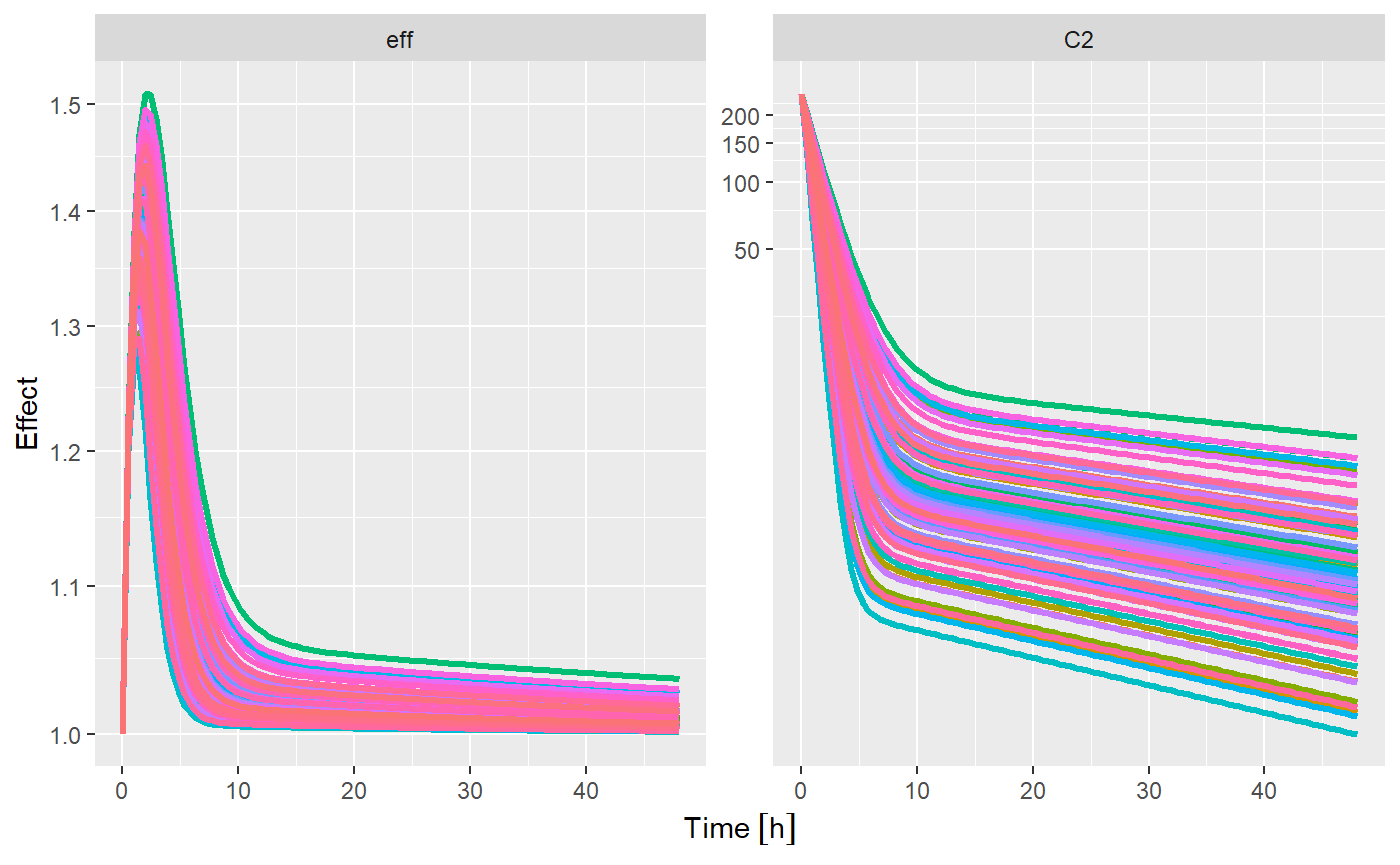
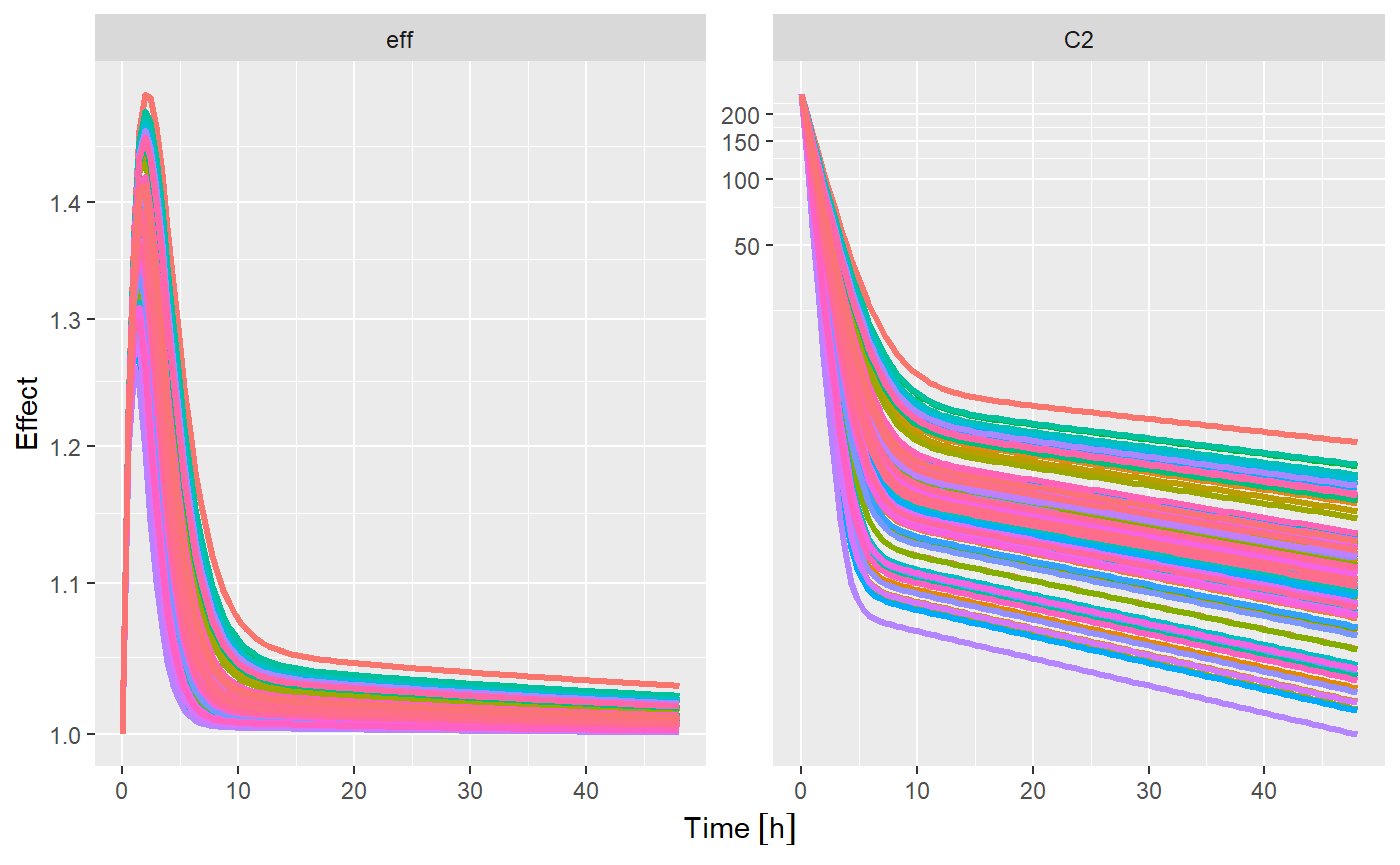
Update documenation

diff --git a/docs/articles/RxODE-sim-var.html b/docs/articles/RxODE-sim-var.html
@@ -63,7 +63,7 @@
       <a href="https://nlmixrdevelopment.github.io/RxODE.doc/articles/RxODE-pipeline.html">RxODE with piping ie %&gt;%</a>
     </li>
     <li>
-      <a href="../articles/speed.html">Speeding up RxODE ODE solving</a>
+      <a href="https://nlmixrdevelopment.github.io/RxODE.doc/articles/speed.html">Speeding up RxODE ODE solving</a>
     </li>
     <li class="divider">
     <li class="dropdown-header">Advanced Features, Model Types, Technical Details</li>
@@ -292,12 +292,12 @@ s &lt;-sim <span class="op">%&gt;%</span><span class="st"> </span><span class="k
 <p>Note that you can see the parameters that were simulated for the example</p>
 <div class="sourceCode"><pre class="sourceCode r"><code class="sourceCode r"><span class="kw"><a href="https://www.rdocumentation.org/packages/utils/topics/head">head</a></span>(sim<span class="op">$</span>param)
 <span class="co">#&gt;   sim.id   V2 prop.err  V3  TCl      eta.Cl    KA    Q Kin Kout EC50</span>
-<span class="co">#&gt; 1      1 40.2        0 297 18.6 -0.44378468 0.294 10.5   1    1  200</span>
-<span class="co">#&gt; 2      2 40.2        0 297 18.6  0.08028425 0.294 10.5   1    1  200</span>
-<span class="co">#&gt; 3      3 40.2        0 297 18.6  0.56368427 0.294 10.5   1    1  200</span>
-<span class="co">#&gt; 4      4 40.2        0 297 18.6 -0.40311693 0.294 10.5   1    1  200</span>
-<span class="co">#&gt; 5      5 40.2        0 297 18.6  0.08052785 0.294 10.5   1    1  200</span>
-<span class="co">#&gt; 6      6 40.2        0 297 18.6  0.06417342 0.294 10.5   1    1  200</span></code></pre></div>
+<span class="co">#&gt; 1      1 40.2        0 297 18.6 -0.93989155 0.294 10.5   1    1  200</span>
+<span class="co">#&gt; 2      2 40.2        0 297 18.6  0.47153079 0.294 10.5   1    1  200</span>
+<span class="co">#&gt; 3      3 40.2        0 297 18.6  0.62126036 0.294 10.5   1    1  200</span>
+<span class="co">#&gt; 4      4 40.2        0 297 18.6 -0.47406088 0.294 10.5   1    1  200</span>
+<span class="co">#&gt; 5      5 40.2        0 297 18.6  0.02213663 0.294 10.5   1    1  200</span>
+<span class="co">#&gt; 6      6 40.2        0 297 18.6  0.29014307 0.294 10.5   1    1  200</span></code></pre></div>
 </div>
 <div id="simulation-of-unexplained-variability" class="section level3">
 <h3 class="hasAnchor">
@@ -356,25 +356,25 @@ dat &lt;-<span class="st"> </span><span class="kw"><a href="https://www.rdocumen
 sim  &lt;-<span class="st"> </span><span class="kw">rxSolve</span>(mod, theta, dat, <span class="dt">omega=</span>omega, <span class="dt">sigma=</span>sigma)
 
 sim <span class="op">%&gt;%</span><span class="st"> </span><span class="kw">select</span>(id, time, e, cp)
-<span class="co">#&gt;    id          time         e          cp</span>
-<span class="co">#&gt; 1   1  0.000000 [h] 0.9579106 10113.37582</span>
-<span class="co">#&gt; 2   1  5.333333 [h] 1.2355987   389.94853</span>
-<span class="co">#&gt; 3   1 10.666667 [h] 0.8857576   112.76544</span>
-<span class="co">#&gt; 4   1 16.000000 [h] 0.7206149   194.04037</span>
-<span class="co">#&gt; 5   1 21.333333 [h] 1.1614892   142.42067</span>
-<span class="co">#&gt; 6   1 26.666667 [h] 1.2045094   169.30676</span>
-<span class="co">#&gt; 7   1 32.000000 [h] 0.7828081   184.59318</span>
-<span class="co">#&gt; 8   1 37.333333 [h] 0.7415160   171.36247</span>
-<span class="co">#&gt; 9   1 42.666667 [h] 1.3704419   111.58701</span>
-<span class="co">#&gt; 10  1 48.000000 [h] 1.3143011   100.29217</span>
-<span class="co">#&gt; 11  2  0.000000 [h] 1.2051766   938.25394</span>
-<span class="co">#&gt; 12  2  6.857143 [h] 1.4497490   207.32017</span>
-<span class="co">#&gt; 13  2 13.714286 [h] 1.0149645   105.91117</span>
-<span class="co">#&gt; 14  2 20.571429 [h] 1.6602476   109.62846</span>
-<span class="co">#&gt; 15  2 27.428571 [h] 0.6084772    31.13311</span>
-<span class="co">#&gt; 16  2 34.285714 [h] 1.2883383    38.19640</span>
-<span class="co">#&gt; 17  2 41.142857 [h] 1.1251433    66.32220</span>
-<span class="co">#&gt; 18  2 48.000000 [h] 1.2219987    47.15960</span></code></pre></div>
+<span class="co">#&gt;    id          time         e         cp</span>
+<span class="co">#&gt; 1   1  0.000000 [h] 0.6464624 3721.95162</span>
+<span class="co">#&gt; 2   1  5.333333 [h] 1.0209052  170.17126</span>
+<span class="co">#&gt; 3   1 10.666667 [h] 0.8589937   66.12528</span>
+<span class="co">#&gt; 4   1 16.000000 [h] 0.9317105   65.93450</span>
+<span class="co">#&gt; 5   1 21.333333 [h] 0.7707185   54.96598</span>
+<span class="co">#&gt; 6   1 26.666667 [h] 1.2584694   43.08445</span>
+<span class="co">#&gt; 7   1 32.000000 [h] 1.0477408   32.72645</span>
+<span class="co">#&gt; 8   1 37.333333 [h] 0.6739108   40.50157</span>
+<span class="co">#&gt; 9   1 42.666667 [h] 0.8269808   37.16707</span>
+<span class="co">#&gt; 10  1 48.000000 [h] 1.2834714   19.51950</span>
+<span class="co">#&gt; 11  2  0.000000 [h] 0.5102074 4485.42730</span>
+<span class="co">#&gt; 12  2  6.857143 [h] 0.8943512  134.67063</span>
+<span class="co">#&gt; 13  2 13.714286 [h] 1.1035428   87.69017</span>
+<span class="co">#&gt; 14  2 20.571429 [h] 0.7811538   68.93875</span>
+<span class="co">#&gt; 15  2 27.428571 [h] 0.9287556   47.62061</span>
+<span class="co">#&gt; 16  2 34.285714 [h] 0.9262346   38.76835</span>
+<span class="co">#&gt; 17  2 41.142857 [h] 1.1036551   26.76642</span>
+<span class="co">#&gt; 18  2 48.000000 [h] 0.8071392   18.19378</span></code></pre></div>
 <div id="simulation-of-clinical-trials" class="section level4">
 <h4 class="hasAnchor">
 <a href="#simulation-of-clinical-trials" class="anchor"></a>Simulation of Clinical Trials</h4>
@@ -407,57 +407,57 @@ s &lt;-sim <span class="op">%&gt;%</span><span class="st"> </span><span class="k
 <div class="sourceCode"><pre class="sourceCode r"><code class="sourceCode r"><span class="kw"><a href="https://www.rdocumentation.org/packages/utils/topics/head">head</a></span>(sim<span class="op">$</span>omega.list)
 <span class="co">#&gt; [[1]]</span>
 <span class="co">#&gt;           [,1]</span>
-<span class="co">#&gt; [1,] 0.1433364</span>
+<span class="co">#&gt; [1,] 0.1029364</span>
 <span class="co">#&gt; </span>
 <span class="co">#&gt; [[2]]</span>
 <span class="co">#&gt;           [,1]</span>
-<span class="co">#&gt; [1,] 0.1801364</span>
+<span class="co">#&gt; [1,] 0.2395337</span>
 <span class="co">#&gt; </span>
 <span class="co">#&gt; [[3]]</span>
 <span class="co">#&gt;           [,1]</span>
-<span class="co">#&gt; [1,] 0.5087348</span>
+<span class="co">#&gt; [1,] 0.2131807</span>
 <span class="co">#&gt; </span>
 <span class="co">#&gt; [[4]]</span>
 <span class="co">#&gt;           [,1]</span>
-<span class="co">#&gt; [1,] 0.3778501</span>
+<span class="co">#&gt; [1,] 0.1249155</span>
 <span class="co">#&gt; </span>
 <span class="co">#&gt; [[5]]</span>
 <span class="co">#&gt;           [,1]</span>
-<span class="co">#&gt; [1,] 0.2418701</span>
+<span class="co">#&gt; [1,] 0.3364744</span>
 <span class="co">#&gt; </span>
 <span class="co">#&gt; [[6]]</span>
 <span class="co">#&gt;           [,1]</span>
-<span class="co">#&gt; [1,] 0.1243837</span></code></pre></div>
+<span class="co">#&gt; [1,] 0.2299501</span></code></pre></div>
 <div class="sourceCode"><pre class="sourceCode r"><code class="sourceCode r"><span class="kw"><a href="https://www.rdocumentation.org/packages/utils/topics/head">head</a></span>(sim<span class="op">$</span>sigma.list)
 <span class="co">#&gt; [[1]]</span>
 <span class="co">#&gt;            [,1]       [,2]</span>
-<span class="co">#&gt; [1,] 0.13264689 0.03626945</span>
-<span class="co">#&gt; [2,] 0.03626945 0.11503773</span>
+<span class="co">#&gt; [1,] 0.09598519 0.01043633</span>
+<span class="co">#&gt; [2,] 0.01043633 0.12764028</span>
 <span class="co">#&gt; </span>
 <span class="co">#&gt; [[2]]</span>
-<span class="co">#&gt;              [,1]         [,2]</span>
-<span class="co">#&gt; [1,]  0.105058632 -0.003856742</span>
-<span class="co">#&gt; [2,] -0.003856742  0.130408285</span>
+<span class="co">#&gt;             [,1]        [,2]</span>
+<span class="co">#&gt; [1,]  0.08805309 -0.01480641</span>
+<span class="co">#&gt; [2,] -0.01480641  0.08235172</span>
 <span class="co">#&gt; </span>
 <span class="co">#&gt; [[3]]</span>
 <span class="co">#&gt;              [,1]         [,2]</span>
-<span class="co">#&gt; [1,]  0.102358281 -0.002326019</span>
-<span class="co">#&gt; [2,] -0.002326019  0.105726791</span>
+<span class="co">#&gt; [1,]  0.097371228 -0.007235554</span>
+<span class="co">#&gt; [2,] -0.007235554  0.082644965</span>
 <span class="co">#&gt; </span>
 <span class="co">#&gt; [[4]]</span>
 <span class="co">#&gt;             [,1]        [,2]</span>
-<span class="co">#&gt; [1,]  0.11820390 -0.02335237</span>
-<span class="co">#&gt; [2,] -0.02335237  0.11182497</span>
+<span class="co">#&gt; [1,] 0.094364448 0.008169488</span>
+<span class="co">#&gt; [2,] 0.008169488 0.113188616</span>
 <span class="co">#&gt; </span>
 <span class="co">#&gt; [[5]]</span>
-<span class="co">#&gt;             [,1]        [,2]</span>
-<span class="co">#&gt; [1,]  0.11828852 -0.00581814</span>
-<span class="co">#&gt; [2,] -0.00581814  0.08187362</span>
+<span class="co">#&gt;              [,1]         [,2]</span>
+<span class="co">#&gt; [1,]  0.095081186 -0.008883501</span>
+<span class="co">#&gt; [2,] -0.008883501  0.077693469</span>
 <span class="co">#&gt; </span>
 <span class="co">#&gt; [[6]]</span>
-<span class="co">#&gt;             [,1]        [,2]</span>
-<span class="co">#&gt; [1,] 0.102638995 0.007738324</span>
-<span class="co">#&gt; [2,] 0.007738324 0.099927449</span></code></pre></div>
+<span class="co">#&gt;            [,1]        [,2]</span>
+<span class="co">#&gt; [1,]  0.1059338 -0.01287220</span>
+<span class="co">#&gt; [2,] -0.0128722  0.09175521</span></code></pre></div>
 <p>You can also see the parameter realizations from the <code>$params</code> data frame.</p>
 <p>If you do not wish to sample from the prior distributions of either the <code>omega</code> or <code>sigma</code> matrices, you can turn off this feature by specifying the <code>simVariability = FALSE</code> option when solving:</p>
 <div class="sourceCode"><pre class="sourceCode r"><code class="sourceCode r">sim  &lt;-<span class="st"> </span><span class="kw">rxSolve</span>(mod, theta, ev, <span class="dt">omega=</span>omega, <span class="dt">nSub=</span><span class="dv">100</span>, <span class="dt">sigma=</span>sigma, <span class="dt">thetaMat=</span>tMat, <span class="dt">nStud=</span><span class="dv">10</span>,

diff --git a/docs/articles/RxODE-speed.html b/docs/articles/RxODE-speed.html
@@ -63,7 +63,7 @@
       <a href="https://nlmixrdevelopment.github.io/RxODE.doc/articles/RxODE-pipeline.html">RxODE with piping ie %&gt;%</a>
     </li>
     <li>
-      <a href="../articles/speed.html">Speeding up RxODE ODE solving</a>
+      <a href="https://nlmixrdevelopment.github.io/RxODE.doc/articles/speed.html">Speeding up RxODE ODE solving</a>
     </li>
     <li class="divider">
     <li class="dropdown-header">Advanced Features, Model Types, Technical Details</li>
@@ -265,16 +265,16 @@ params.all &lt;-<span class="st"> </span><span class="kw"><a href="https://www.r
 <div class="sourceCode"><pre class="sourceCode r"><code class="sourceCode r">bench &lt;-<span class="st"> </span><span class="kw">microbenchmark</span>(<span class="kw">runFor</span>(), <span class="kw">runSapply</span>(), <span class="kw">runSingleThread</span>(),<span class="kw">run2Thread</span>())
 <span class="kw"><a href="https://www.rdocumentation.org/packages/base/topics/print">print</a></span>(bench)
 <span class="co">#&gt; Unit: milliseconds</span>
-<span class="co">#&gt;               expr       min        lq       mean    median         uq</span>
-<span class="co">#&gt;           runFor() 584.20764 768.80366 1047.25242 916.90128 1177.51763</span>
-<span class="co">#&gt;        runSapply() 461.47029 704.58926  918.38560 837.00595 1013.59695</span>
-<span class="co">#&gt;  runSingleThread()  52.92321  83.06280  108.68827 105.52223  118.33512</span>
-<span class="co">#&gt;       run2Thread()  29.63755  55.01344   67.66035  64.11957   75.55177</span>
+<span class="co">#&gt;               expr       min        lq      mean    median        uq</span>
+<span class="co">#&gt;           runFor() 448.34971 626.18618 756.99616 699.01808 834.87691</span>
+<span class="co">#&gt;        runSapply() 432.57261 621.51865 843.37054 763.81327 979.31128</span>
+<span class="co">#&gt;  runSingleThread()  48.42414  65.65132  85.91035  80.02943 101.33776</span>
+<span class="co">#&gt;       run2Thread()  28.76202  45.34994  55.92237  53.60352  62.34016</span>
 <span class="co">#&gt;        max neval</span>
-<span class="co">#&gt;  4602.4663   100</span>
-<span class="co">#&gt;  2405.0744   100</span>
-<span class="co">#&gt;   428.7331   100</span>
-<span class="co">#&gt;   182.2110   100</span></code></pre></div>
+<span class="co">#&gt;  1498.5762   100</span>
+<span class="co">#&gt;  3543.4469   100</span>
+<span class="co">#&gt;   152.5909   100</span>
+<span class="co">#&gt;   122.6878   100</span></code></pre></div>
 <div class="sourceCode"><pre class="sourceCode r"><code class="sourceCode r"><span class="kw"><a href="https://www.rdocumentation.org/packages/graphics/topics/plot">plot</a></span>(bench)</code></pre></div>
 <p><img src="RxODE-speed_files/figure-html/unnamed-chunk-7-1.png" width="700"></p>
 <p>It is clear that the <strong>largest</strong> jump in performance when using the <code>solve</code> method and providing <em>all</em> the parameters to RxODE to solve without looping over each subject with either a <code>for</code> or a <code>sapply</code>. The number of cores/threads applied to the solve also plays a role in the solving.</p>
@@ -288,16 +288,11 @@ bench &lt;-<span class="st"> </span><span class="kw"><a href="https://www.rdocum
                                            <span class="dt">collapse=</span><span class="st">","</span>))))
 <span class="kw"><a href="https://www.rdocumentation.org/packages/base/topics/print">print</a></span>(bench)
 <span class="co">#&gt; Unit: milliseconds</span>
-<span class="co">#&gt;          expr      min       lq      mean    median        uq      max</span>
-<span class="co">#&gt;  runThread(1) 52.13737 84.19582 109.19629 107.13296 130.99272 227.7917</span>
-<span class="co">#&gt;  runThread(2) 32.59528 49.96080  67.62228  63.70233  81.01697 166.5741</span>
-<span class="co">#&gt;  runThread(3) 32.65062 43.95006  59.26460  55.27516  69.67804 169.7723</span>
-<span class="co">#&gt;  runThread(4) 27.08457 36.13715  51.62323  48.98619  61.15827 136.8923</span>
-<span class="co">#&gt;  neval</span>
-<span class="co">#&gt;    100</span>
-<span class="co">#&gt;    100</span>
-<span class="co">#&gt;    100</span>
-<span class="co">#&gt;    100</span></code></pre></div>
+<span class="co">#&gt;          expr      min       lq     mean   median        uq      max neval</span>
+<span class="co">#&gt;  runThread(1) 47.71505 65.76333 95.83954 80.84717 116.62443 266.7491   100</span>
+<span class="co">#&gt;  runThread(2) 28.28765 41.77237 57.30371 50.34479  63.00061 189.8401   100</span>
+<span class="co">#&gt;  runThread(3) 28.62814 39.33586 50.63909 44.82560  57.36450 162.4391   100</span>
+<span class="co">#&gt;  runThread(4) 25.30627 31.06800 48.76563 42.43416  60.12989 175.0720   100</span></code></pre></div>
 <div class="sourceCode"><pre class="sourceCode r"><code class="sourceCode r"><span class="kw"><a href="https://www.rdocumentation.org/packages/graphics/topics/plot">plot</a></span>(bench)</code></pre></div>
 <p><img src="RxODE-speed_files/figure-html/unnamed-chunk-9-1.png" width="700"></p>
 <p>There is a suite spot in speed vs number or cores. The system type, complexity of the ODE solving and the number of subjects may affect this arbitrary number of threads. 4 threads is a good number to use without any prior knowledge because most systems these days have at least 4 threads (or 2 processors with 4 threads).</p>

diff --git a/docs/articles/index.html b/docs/articles/index.html
@@ -94,7 +94,7 @@
       <a href="https://nlmixrdevelopment.github.io/RxODE.doc/articles/RxODE-pipeline.html">RxODE with piping ie %&gt;%</a>
     </li>
     <li>
-      <a href="../articles/speed.html">Speeding up RxODE ODE solving</a>
+      <a href="https://nlmixrdevelopment.github.io/RxODE.doc/articles/speed.html">Speeding up RxODE ODE solving</a>
     </li>
     <li class="divider"></li>
     <li class="dropdown-header">Advanced Features, Model Types, Technical Details</li>

diff --git a/docs/reference/RxODE.doc.html b/docs/reference/RxODE.doc.html
@@ -97,7 +97,7 @@
       <a href="https://nlmixrdevelopment.github.io/RxODE.doc/articles/RxODE-pipeline.html">RxODE with piping ie %&gt;%</a>
     </li>
     <li>
-      <a href="../articles/speed.html">Speeding up RxODE ODE solving</a>
+      <a href="https://nlmixrdevelopment.github.io/RxODE.doc/articles/speed.html">Speeding up RxODE ODE solving</a>
     </li>
     <li class="divider"></li>
     <li class="dropdown-header">Advanced Features, Model Types, Technical Details</li>

diff --git a/docs/reference/index.html b/docs/reference/index.html
@@ -94,7 +94,7 @@
       <a href="https://nlmixrdevelopment.github.io/RxODE.doc/articles/RxODE-pipeline.html">RxODE with piping ie %&gt;%</a>
     </li>
     <li>
-      <a href="../articles/speed.html">Speeding up RxODE ODE solving</a>
+      <a href="https://nlmixrdevelopment.github.io/RxODE.doc/articles/speed.html">Speeding up RxODE ODE solving</a>
     </li>
     <li class="divider"></li>
     <li class="dropdown-header">Advanced Features, Model Types, Technical Details</li>

diff --git a/docs/authors.html b/docs/authors.html
@@ -94,7 +94,7 @@
       <a href="https://nlmixrdevelopment.github.io/RxODE.doc/articles/RxODE-pipeline.html">RxODE with piping ie %&gt;%</a>
     </li>
     <li>
-      <a href="articles/speed.html">Speeding up RxODE ODE solving</a>
+      <a href="https://nlmixrdevelopment.github.io/RxODE.doc/articles/speed.html">Speeding up RxODE ODE solving</a>
     </li>
     <li class="divider"></li>
     <li class="dropdown-header">Advanced Features, Model Types, Technical Details</li>

diff --git a/docs/articles/RxODE-pipeline.html b/docs/articles/RxODE-pipeline.html
@@ -63,7 +63,7 @@
       <a href="https://nlmixrdevelopment.github.io/RxODE.doc/articles/RxODE-pipeline.html">RxODE with piping ie %&gt;%</a>
     </li>
     <li>
-      <a href="../articles/speed.html">Speeding up RxODE ODE solving</a>
+      <a href="https://nlmixrdevelopment.github.io/RxODE.doc/articles/speed.html">Speeding up RxODE ODE solving</a>
     </li>
     <li class="divider">
     <li class="dropdown-header">Advanced Features, Model Types, Technical Details</li>
